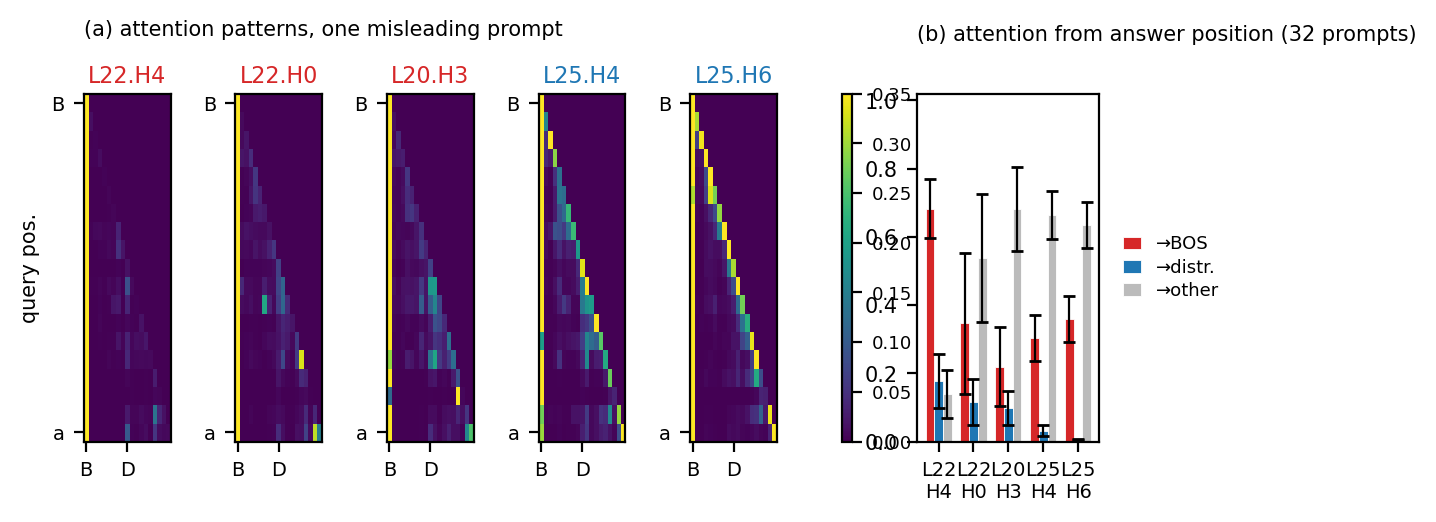
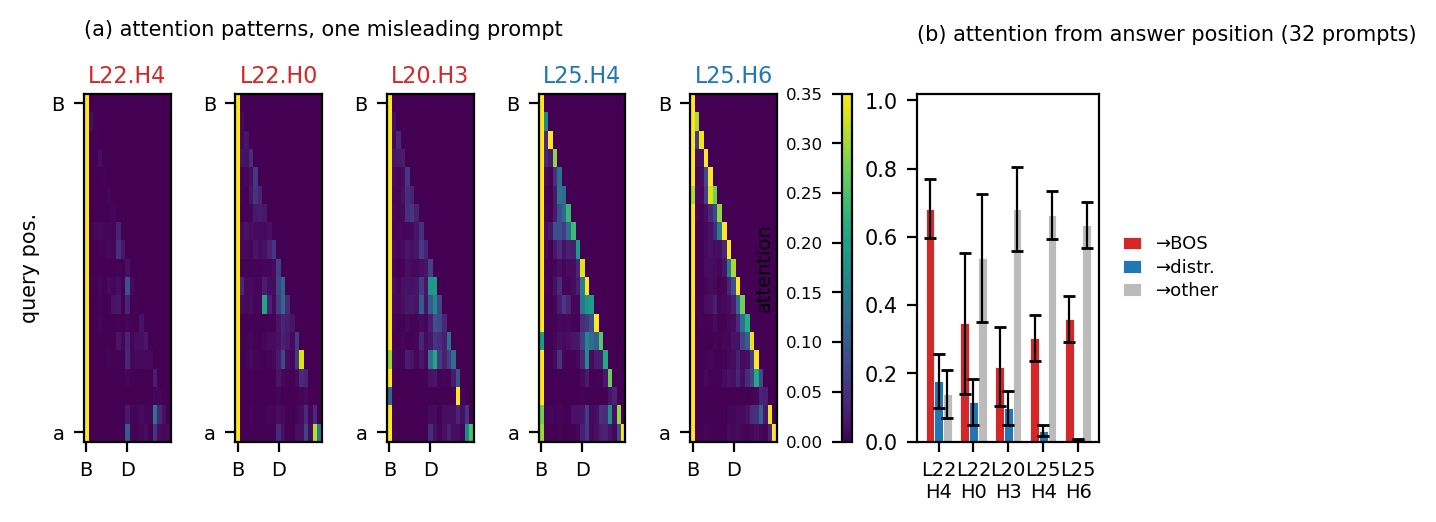
fig3: colorbar ticks moved left, gap between colorbar and panel b cleared

diff --git a/scripts/make_fig3_v2.py b/scripts/make_fig3_v2.py
@@ -54,7 +54,9 @@ for i, h in enumerate(HEADS):
 cax = fig.add_subplot(gs[0, 5])
 cb = fig.colorbar(im, cax=cax)
 cb.set_label("attention", fontsize=7)
-cb.ax.tick_params(labelsize=6.5)
+cb.ax.yaxis.set_ticks_position("left")
+cb.ax.yaxis.set_label_position("left")
+cb.ax.tick_params(labelsize=6)
 
 # ---- (b) answer-position breakdown, mean±SD over prompts
 axb = fig.add_subplot(gs[0, 6])
